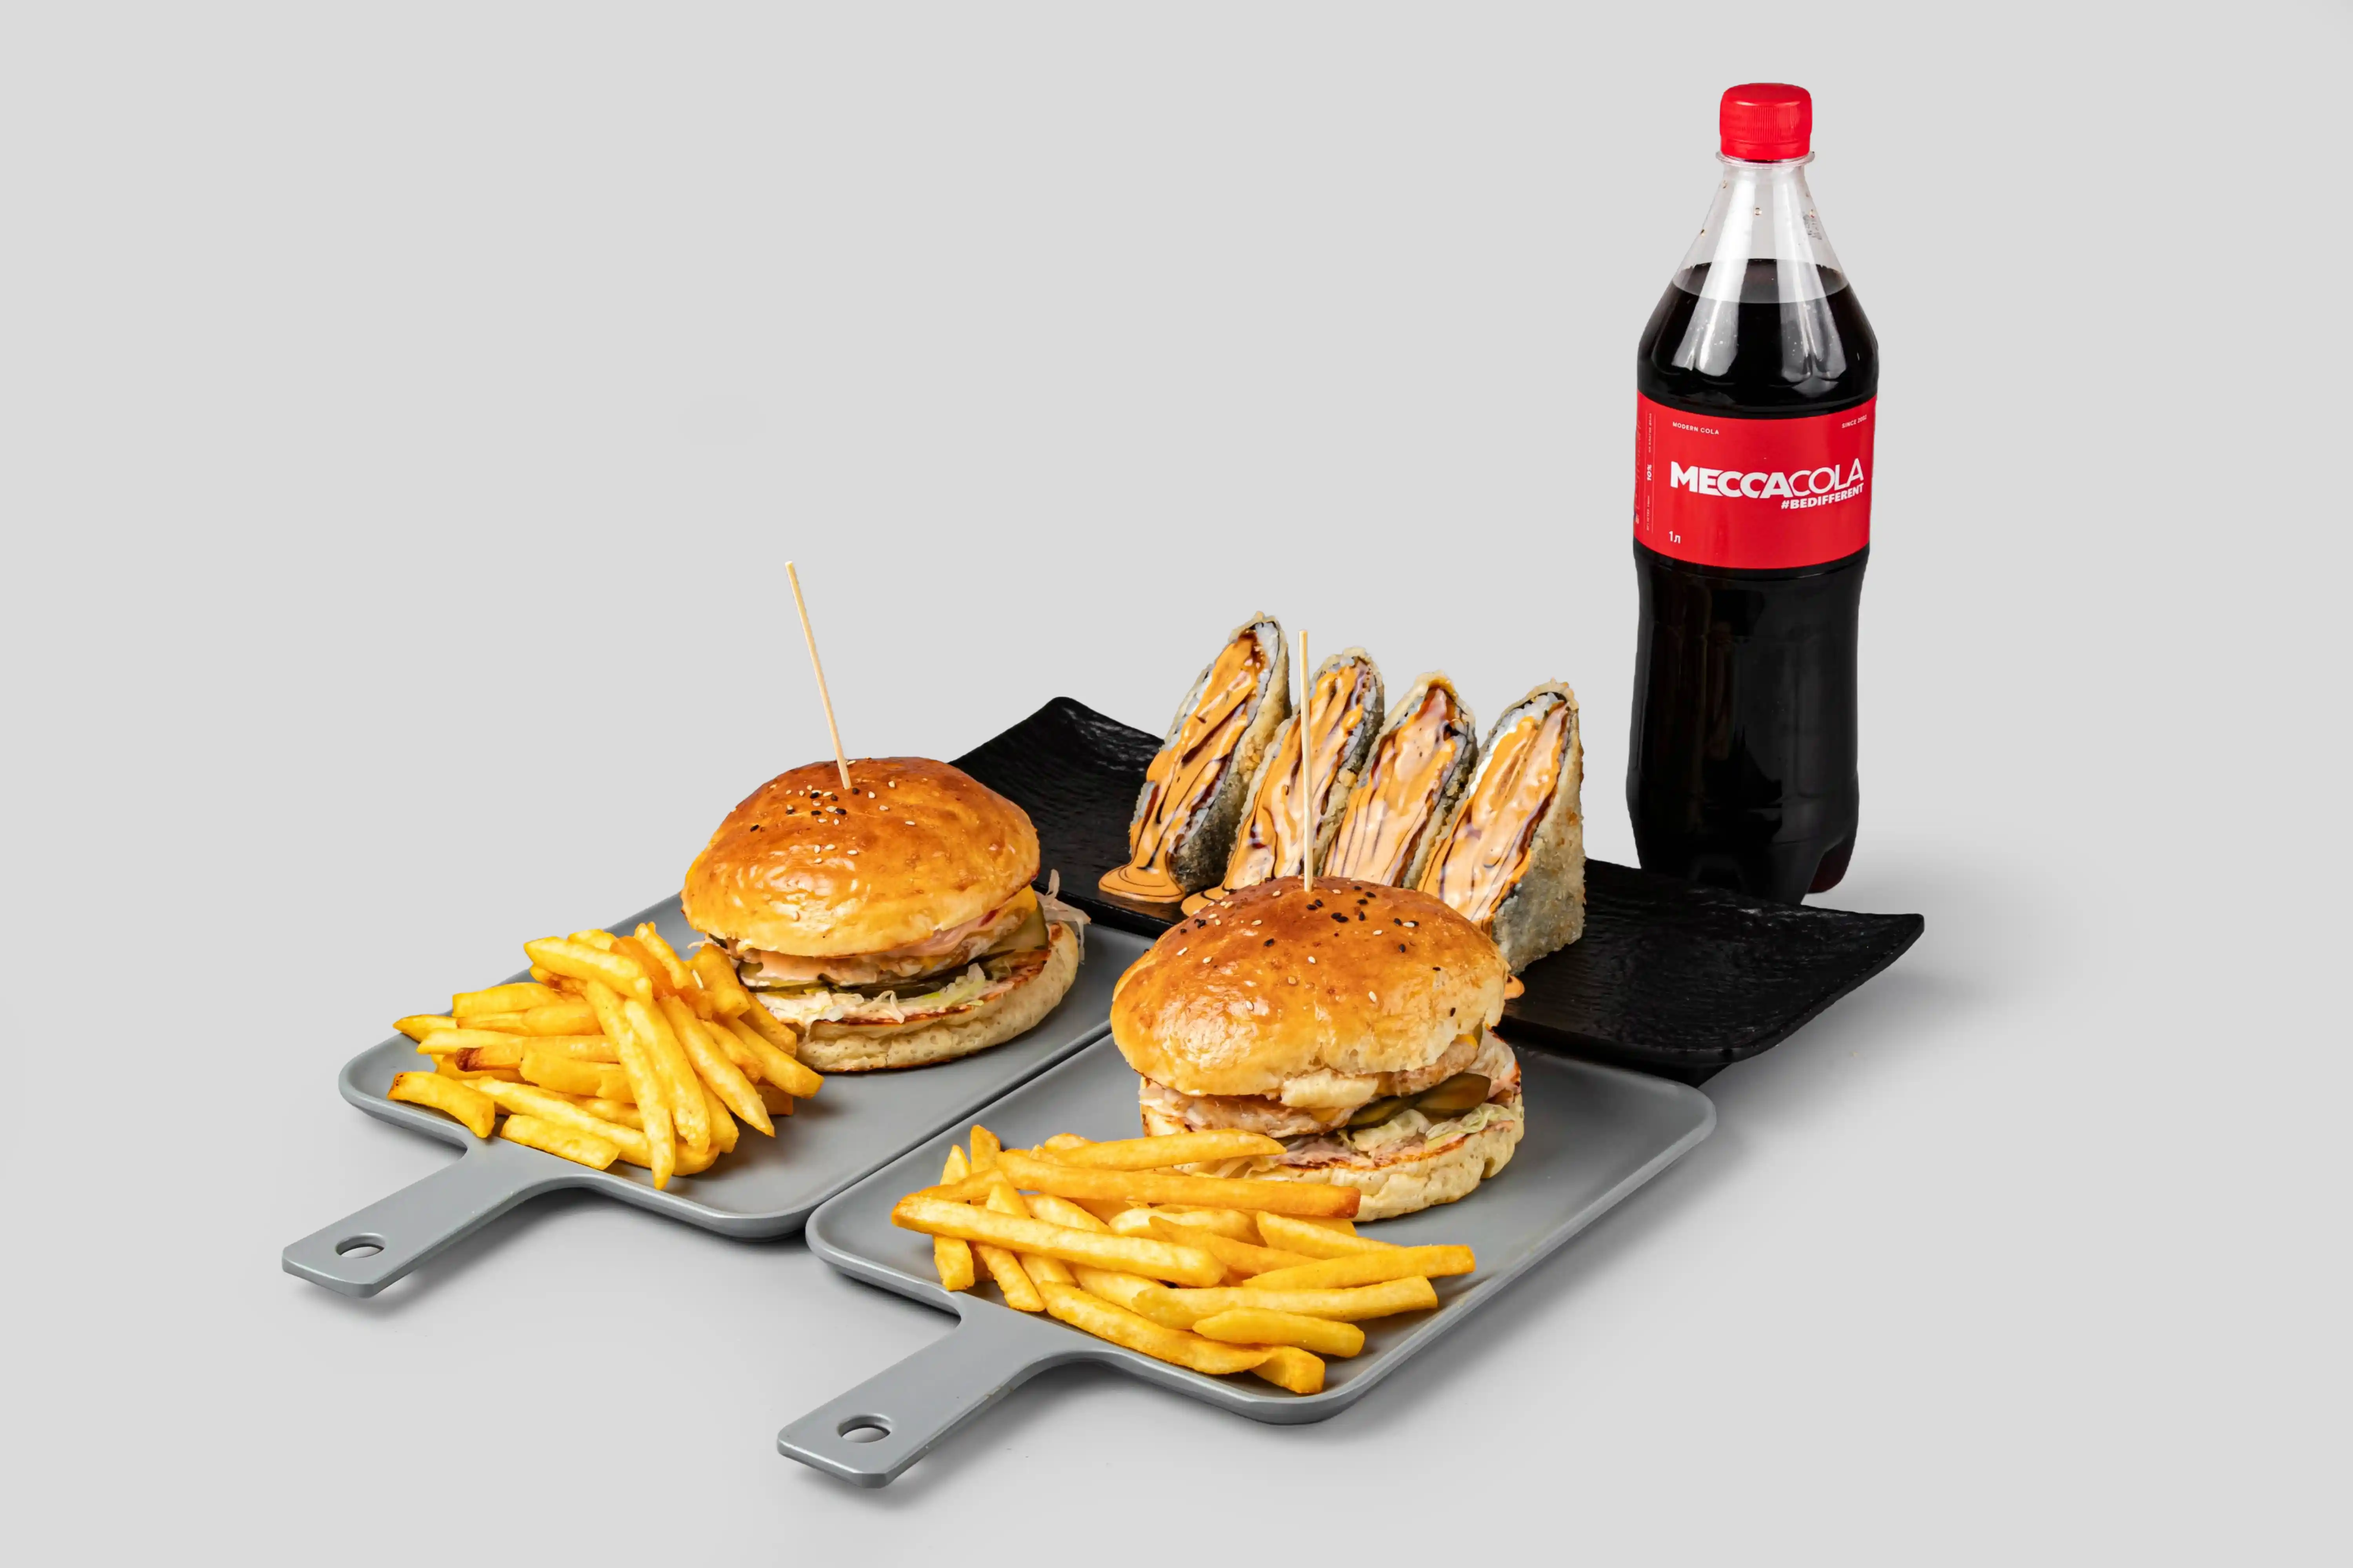
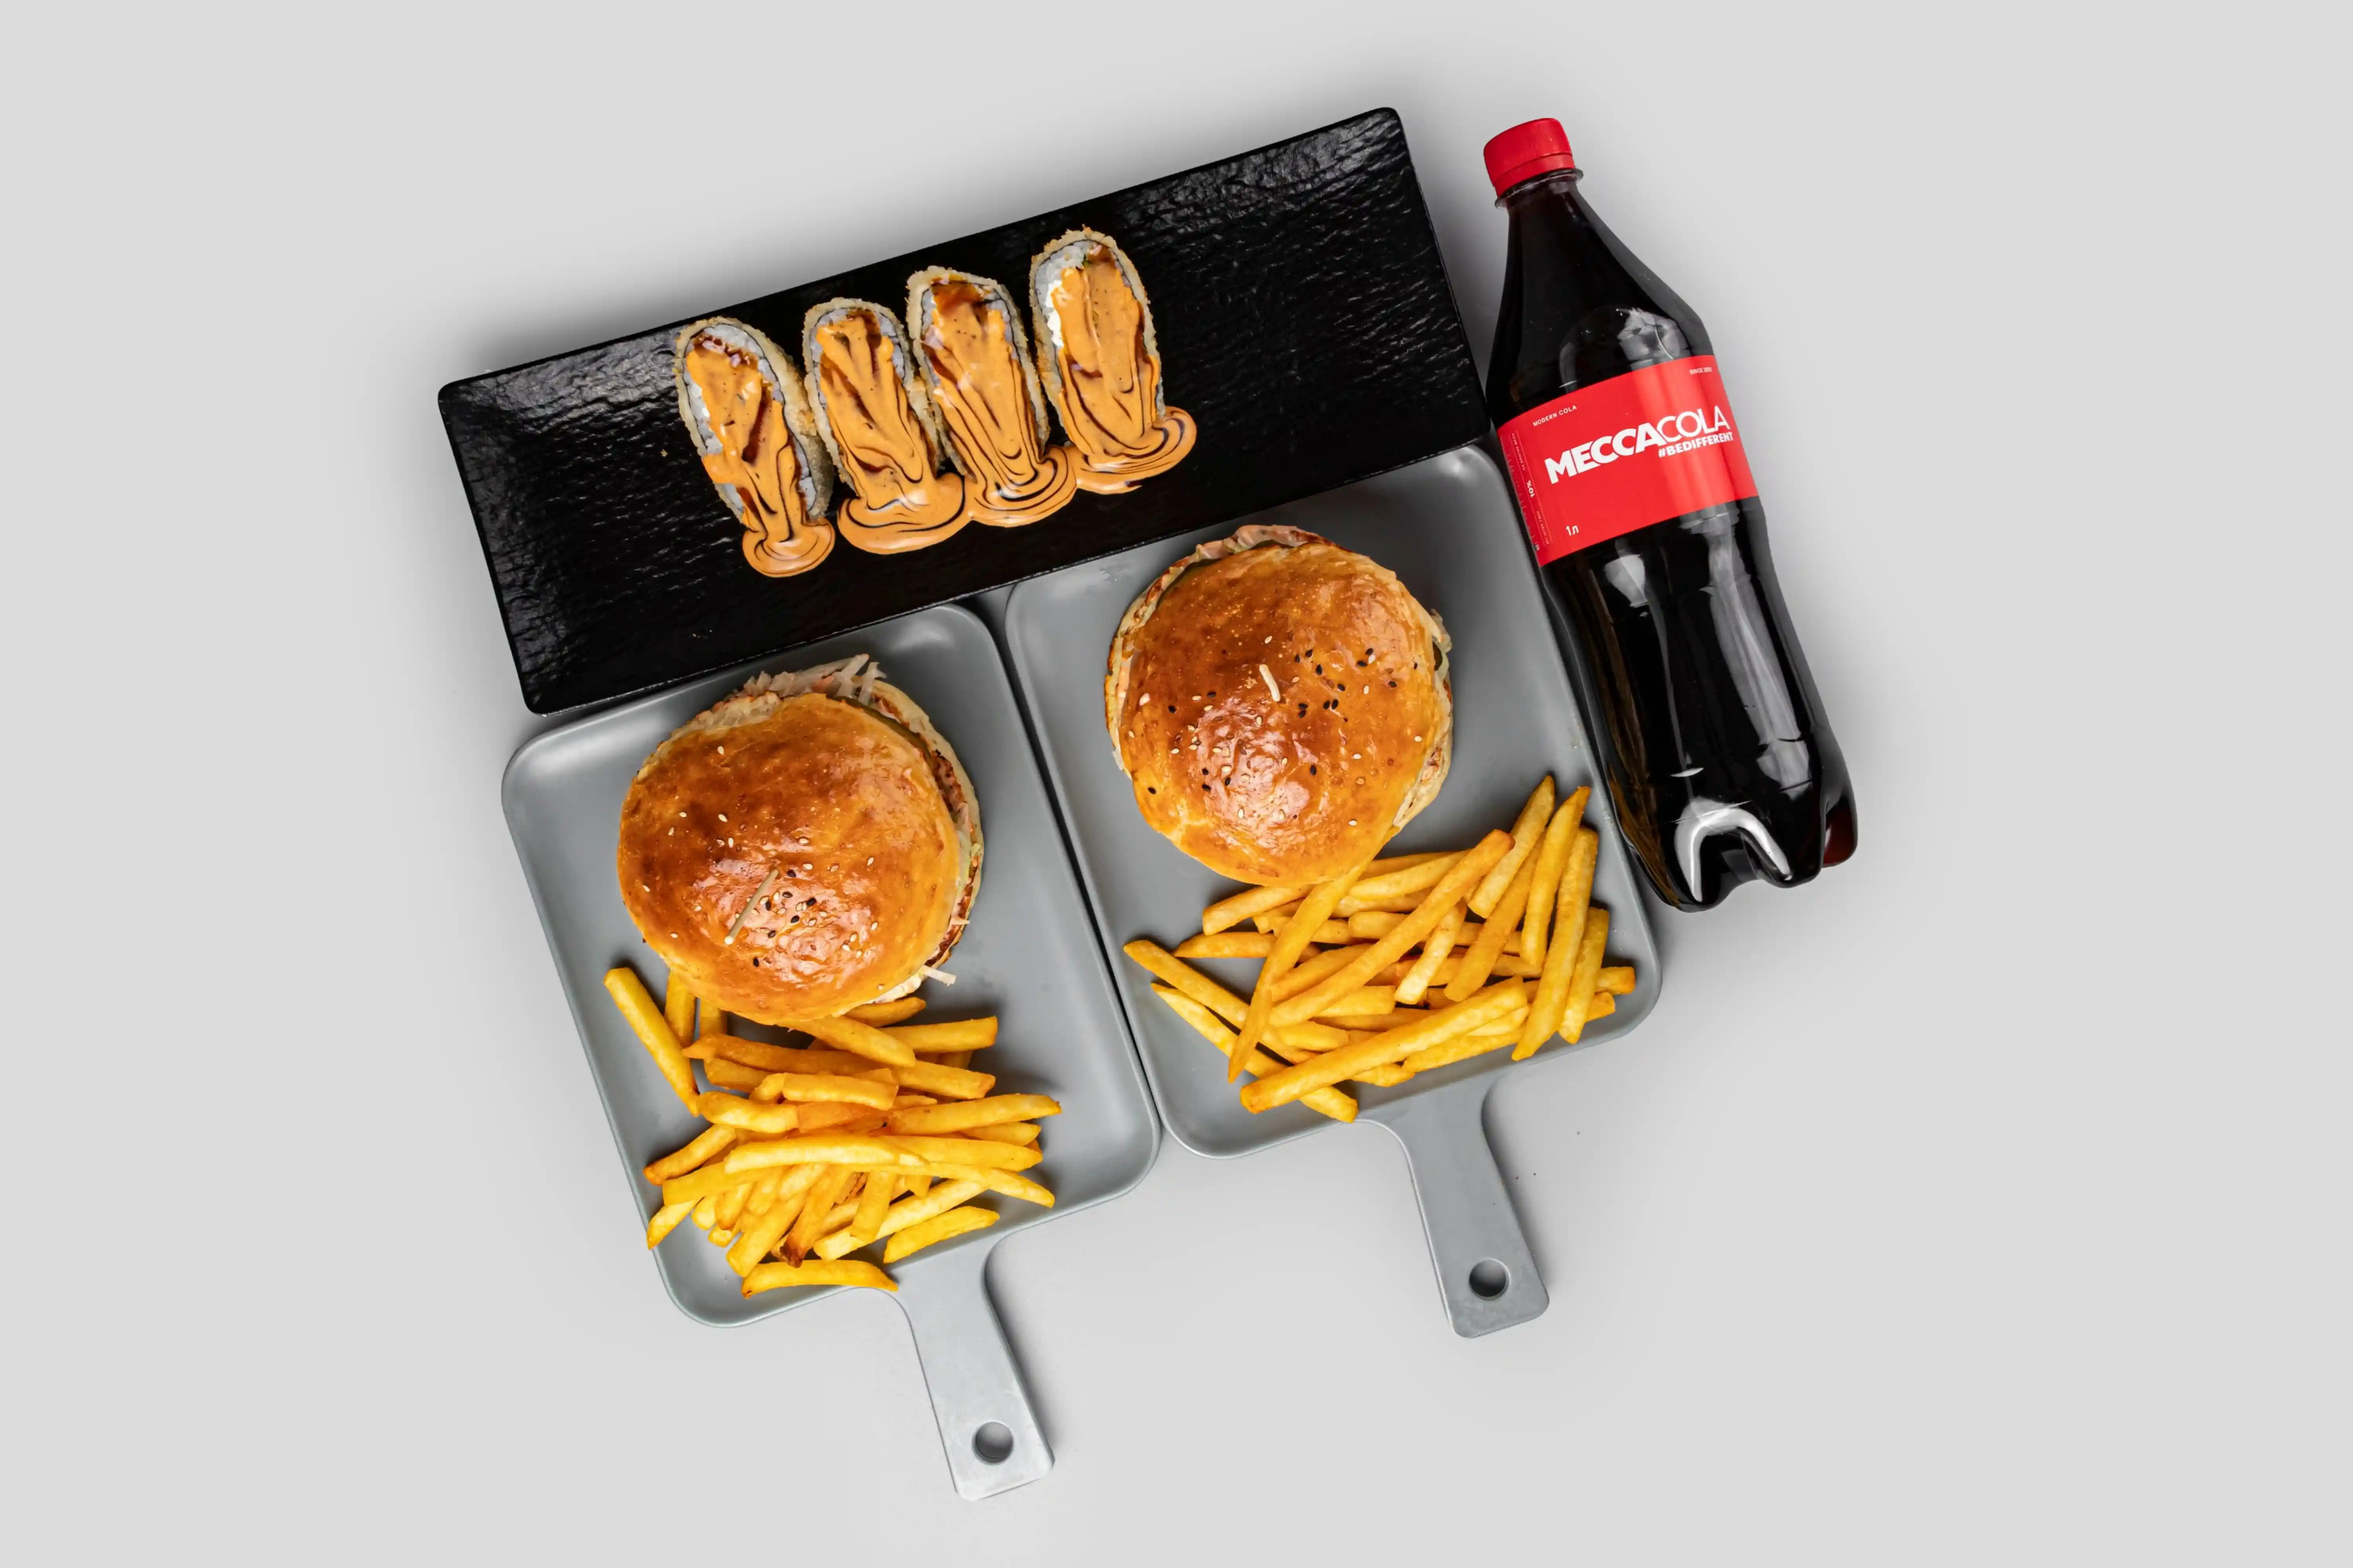
WOKIPASTA Update

diff --git a/script.js b/script.js
@@ -1465,8 +1465,8 @@ const products = [
         id: 102,
         category: "sides",
         price: 100,
-        image: "images/bun.png",
-        images: ["images/bun.png"],
+        image: "images/bun.webp",
+        images: ["images/bun.webp"],
         name: {
             ru: "Булочка",
             kz: "Тоқаш",
@@ -1842,9 +1842,9 @@ const sets = [
         id: 1,
         category: "sets",
         price: 8600,
-        image: "images/Seoul.png",
+        image: "images/Seoul.webp",
         images: [
-            "images/Seoul.png"
+            "images/Seoul.webp"
         ],
         name: {
             ru: "SEOUL",
@@ -1862,9 +1862,9 @@ const sets = [
         id: 2,
         category: "sets",
         price: 8800,
-        image: "images/Hanai.png",
+        image: "images/Hanai.webp",
         images: [
-            "images/Hanai.png",
+            "images/Hanai.webp",
             "images/Hanai2.webp",
             "images/Hanai3.webp",
             "images/Hanai4.webp"
@@ -1885,9 +1885,9 @@ const sets = [
         id: 3,
         category: "sets",
         price: 6500,
-        image: "images/Tokyo.png",
+        image: "images/Tokyo.webp",
         images: [
-            "images/Tokyo.png",
+            "images/Tokyo.webp",
             "images/Tokyo2.webp",
             "images/Tokyo3.webp",
             "images/Tokyo4.webp"
@@ -1908,9 +1908,9 @@ const sets = [
         id: 4,
         category: "sets",
         price: 8600,
-        image: "images/Shanghai.png",
+        image: "images/Shanghai.webp",
         images: [
-            "images/Shanghai.png",
+            "images/Shanghai.webp",
             "images/Shangai2.webp",
             "images/Shangai3.webp"
         ],
@@ -1930,9 +1930,9 @@ const sets = [
         id: 5,
         category: "sets",
         price: 9900,
-        image: "images/HongKong.png",
+        image: "images/HongKong.webp",
         images: [
-            "images/HongKong.png",
+            "images/HongKong.webp",
             "images/HongKong2.webp",
             "images/HongKong3.webp",
             "images/HongKong4.webp"
@@ -1953,9 +1953,9 @@ const sets = [
         id: 6,
         category: "sets",
         price: 11900,
-        image: "images/Osaka.png",
+        image: "images/Osaka.webp",
         images: [
-            "images/Osaka.png",
+            "images/Osaka.webp",
             "images/Osaka2.webp",
             "images/Osaka3.webp",
             "images/Osaka4.webp"
@@ -1976,9 +1976,9 @@ const sets = [
         id: 8,
         category: "sets",
         price: 16900,
-        image: "images/Jakarta.png",
+        image: "images/Jakarta.webp",
         images: [
-            "images/Jakarta.png",
+            "images/Jakarta.webp",
             "images/Jakarta2.webp",
             "images/Jakarta3.webp"
         ],
@@ -1998,9 +1998,9 @@ const sets = [
         id: 9,
         category: "sets",
         price: 12700,
-        image: "images/Bangkok.png",
+        image: "images/Bangkok.webp",
         images: [
-            "images/Bangkok.png"
+            "images/Bangkok.webp"
         ],
         name: {
             ru: "BANGKOK",
@@ -2018,9 +2018,9 @@ const sets = [
         id: 10,
         category: "sets",
         price: 14500,
-        image: "images/Beijing.png",
+        image: "images/Beijing.webp",
         images: [
-            "images/Beijing.png",
+            "images/Beijing.webp",
             "images/Beijing2.webp",
             "images/Beijing3.webp"
         ],
@@ -2040,9 +2040,9 @@ const sets = [
         id: 11,
         category: "sets",
         price: 9900,
-        image: "images/Busan.png",
+        image: "images/Busan.webp",
         images: [
-            "images/Busan.png",
+            "images/Busan.webp",
             "images/Busan2.webp",
             "images/Busan3.webp",
             "images/Busan4.webp"
@@ -2063,9 +2063,9 @@ const sets = [
         id: 12,
         category: "sets",
         price: 8100,
-        image: "images/Kyoto.png",
+        image: "images/Kyoto.webp",
         images: [
-            "images/Kyoto.png",
+            "images/Kyoto.webp",
             "images/Kyoto.webp",
             "images/Kyoto2.webp",
             "images/Kyoto3.webp"
@@ -2086,9 +2086,9 @@ const sets = [
         id: 13,
         category: "sets",
         price: 13000,
-        image: "images/Suwon.png",
+        image: "images/Suwon.webp",
         images: [
-            "images/Suwon.png",
+            "images/Suwon.webp",
             "images/Suwon2.webp",
             "images/Suwon3.webp",
             "images/Suwon4.webp"
